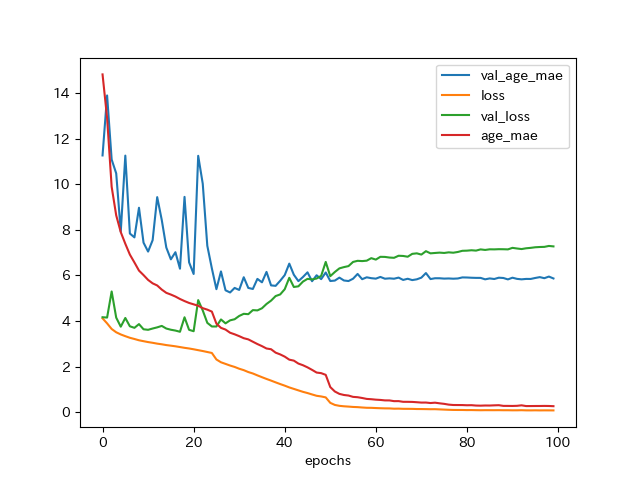
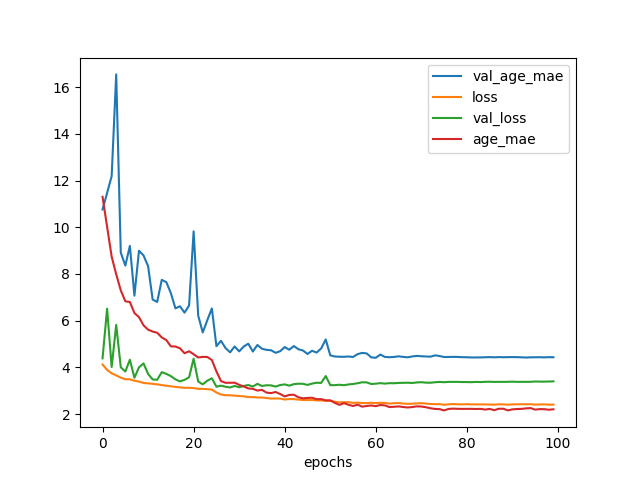
improve pretrained accuracy

diff --git a/age_estimation/demo.py b/age_estimation/demo.py
@@ -8,8 +8,8 @@ from keras.utils.data_utils import get_file
 from model import get_model
 
 
-pretrained_model = "https://github.com/yu4u/age-gender-estimation/releases/download/v0.5/age_only_weights.029-4.027-5.250.hdf5"
-modhash = '4e1cb835a204fcb6f82e35e8e01fab33'
+pretrained_model = "https://github.com/yu4u/age-gender-estimation/releases/download/v0.5/age_only_resnet50_weights.061-3.300-4.410.hdf5"
+modhash = "306e44200d3f632a5dccac153c2966f2"
 
 
 def get_args():
@@ -81,7 +81,7 @@ def main():
     image_dir = args.image_dir
 
     if not weight_file:
-        weight_file = get_file("age_only_weights.029-4.027-5.250.hdf5", pretrained_model,
+        weight_file = get_file("age_only_resnet50_weights.061-3.300-4.410.hdf5", pretrained_model,
                                cache_subdir="pretrained_models",
                                file_hash=modhash, cache_dir=Path(__file__).resolve().parent)
 

diff --git a/age_estimation/README.md b/age_estimation/README.md
@@ -39,7 +39,8 @@ Options:
 ```bash
 usage: train.py [-h] --appa_dir APPA_DIR [--utk_dir UTK_DIR]
                 [--output_dir OUTPUT_DIR] [--batch_size BATCH_SIZE]
-                [--nb_epochs NB_EPOCHS] [--lr LR] [--model_name MODEL_NAME]
+                [--nb_epochs NB_EPOCHS] [--lr LR] [--opt OPT]
+                [--model_name MODEL_NAME]
 
 This script trains the CNN model for age estimation.
 
@@ -54,6 +55,7 @@ optional arguments:
   --nb_epochs NB_EPOCHS
                         number of epochs (default: 30)
   --lr LR               learning rate (default: 0.1)
+  --opt OPT             optimizer name; 'sgd' or 'adam' (default: sgd)
   --model_name MODEL_NAME
                         model name: 'ResNet50' or 'InceptionResNetV2'
                         (default: ResNet50)
@@ -61,11 +63,16 @@ optional arguments:
 
 ### Result
 
-Currently the best MAE (against apparent age) is 5.250.
+Currently the best MAE (against apparent age) is 4.410.
+This model can be trained by:
+
+```bash
+python3 train.py --appa_dir APPA_DIR --opt adam --lr 0.001 --nb_epochs 100
+```
 
 <img src="result/result.png" width="480px">
 
-weights: https://github.com/yu4u/age-gender-estimation/releases/download/v0.5/age_only_weights.029-4.027-5.250.hdf5
+weights: https://github.com/yu4u/age-gender-estimation/releases/download/v0.5/age_only_resnet50_weights.061-3.300-4.410.hdf5
 
 
 ### Demo
